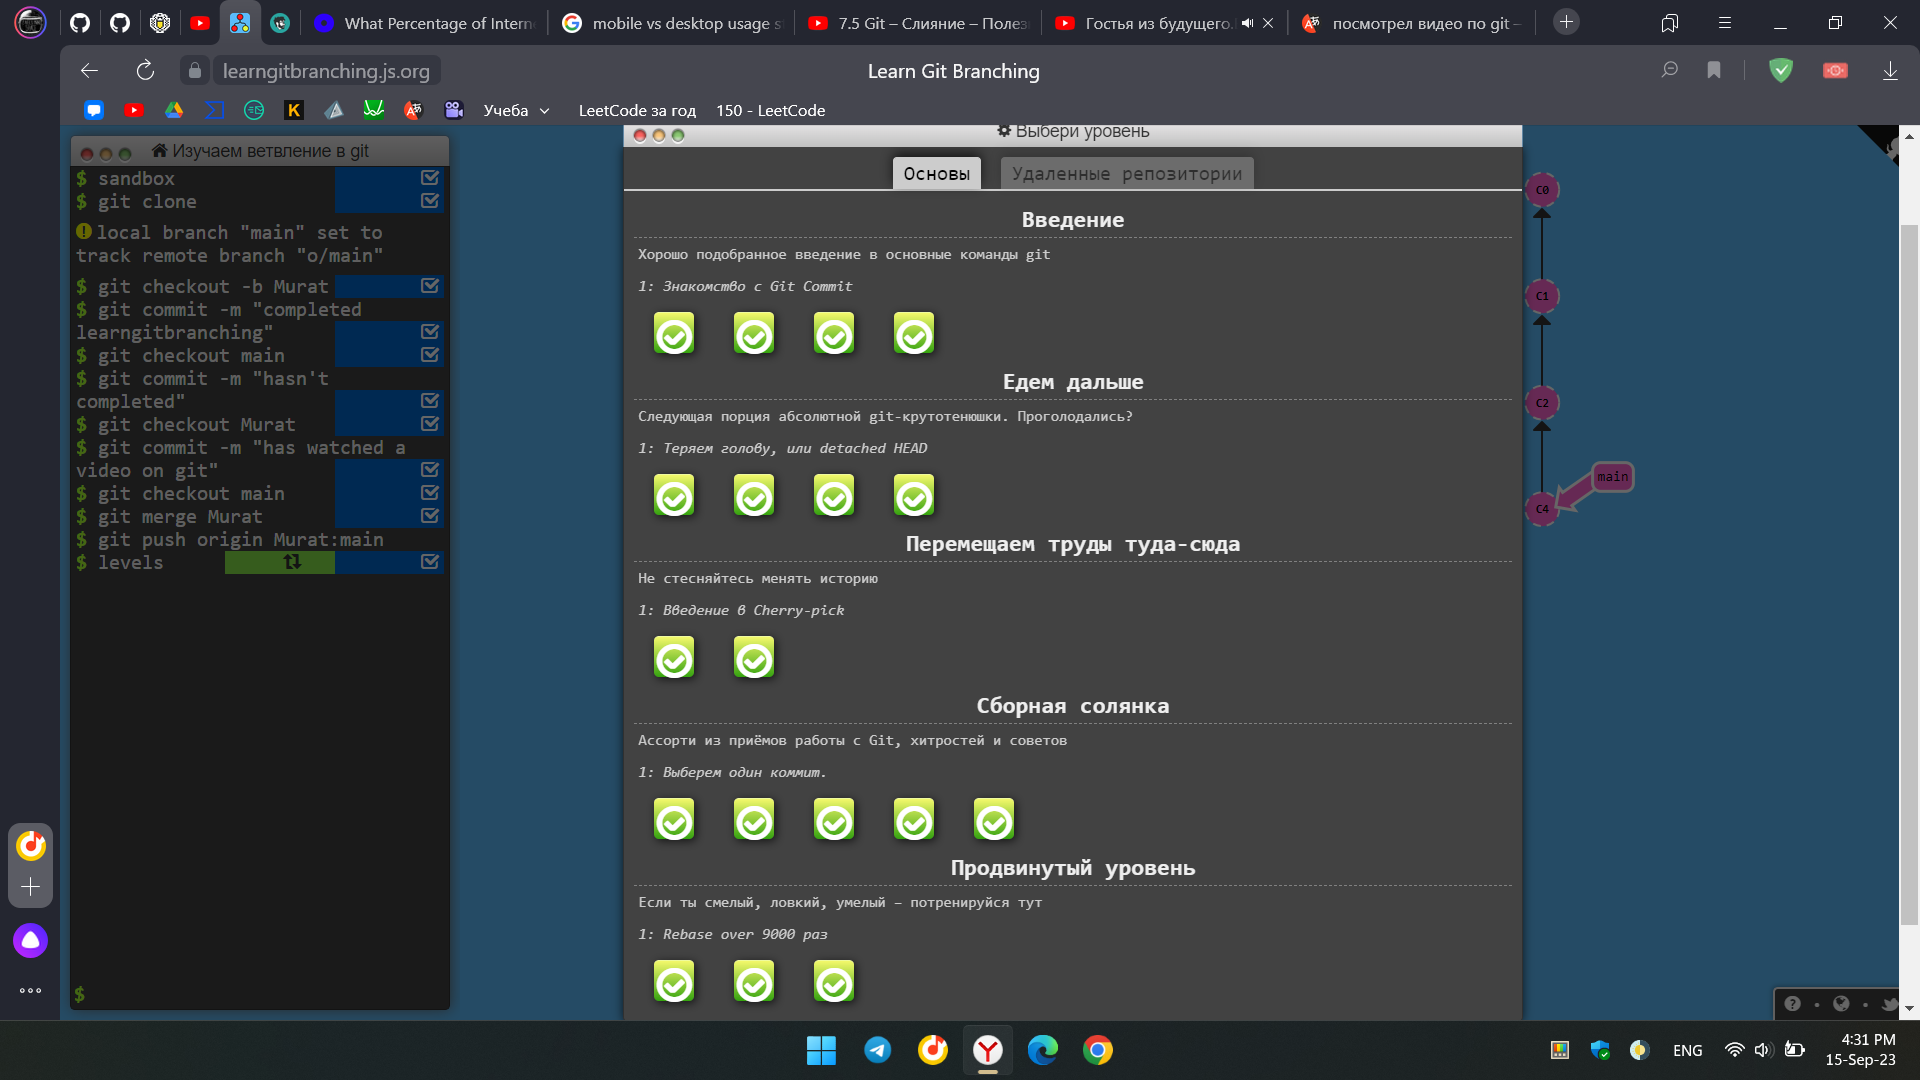
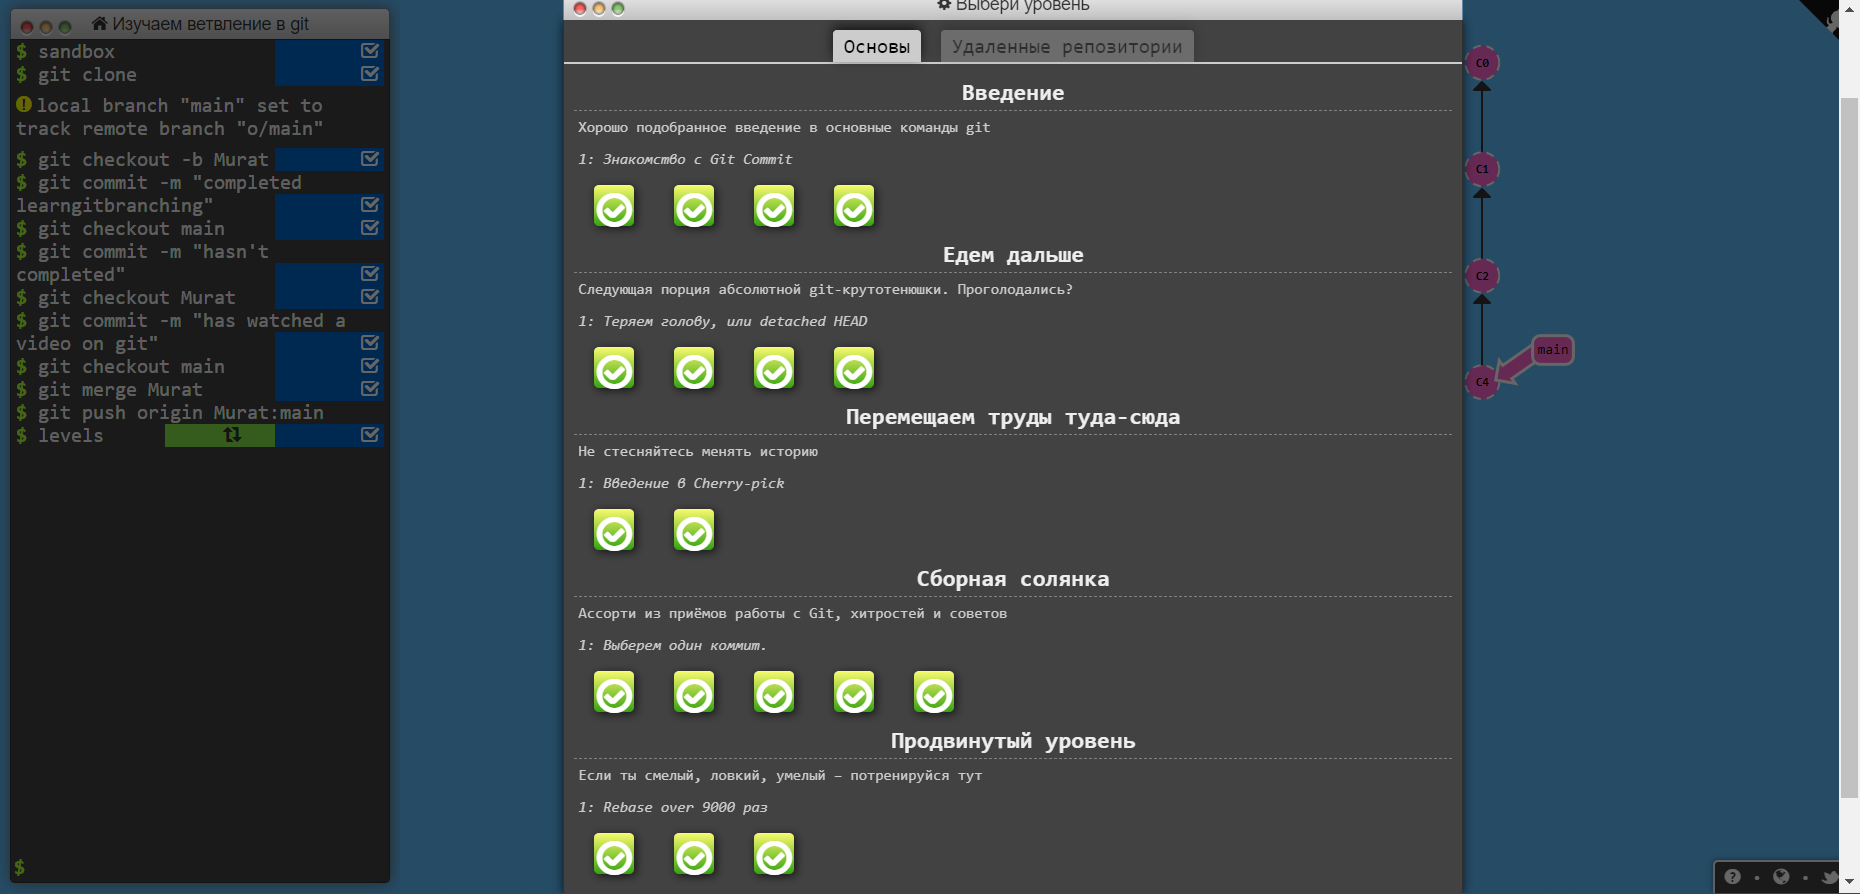
add README.MD

Changed region(s): [[0.0, 0.0, 1.0, 1.0]]

diff --git a/README.MD b/README.MD
@@ -1,0 +1,109 @@
+# FinTech
+***Решил сделать README.MD в виде dropdown списков***
+
+<details> <summary>Пройти интерактивный курс по git</summary>
+
+Пруфы прохождения интерактивного курса по [git](https://learngitbranching.js.org/?locale=ru_RU):
+![](learngitbranching1.png)
+![](learngitbranching2.png)
+</details>
+
+<details> <summary>Создать репозиторий на GitHub</summary> 
+
+На GitHub был создан пустой репозиторий под названием [fintech](https://github.com/TblPK/fintech/)
+</details>
+
+<details> <summary>Создать ветку и запушить ветку master</summary>
+
+С помощью следующих команд была создана и запушена ветка master на удаленный репозиторий (он же GitHub):
+```
+git init
+git commit --allow-empty -m "--allow-empty"
+git remote add origin https://github.com/TblPK/fintech.git
+git push -u origin master
+```
+</details>
+
+<details> <summary>Создать ветку develop</summary>
+
+Чтобы создать ветку и сразу переключиться на неё, можно выполнить команду: `git checkout -b develop`
+</details>
+
+<details> <summary>Опыт, какие навыки имеете</summary>
+
+У меня нет огромного опыта разработки. В основном я занимался созданием мелких приложений для изучения различных языков программирования (Java, C++, Python, Kotlin, ~~MatLab~~). 
+
+Из более-менее серьезных проектов:
+- Курсовая работа: реализация функциональности сохранения отрисовываемых на сцене объектов в приложении на Android с использованием Java. (репозиторий приватный)
+- Делал для себя: реализация простого клиент-серверного приложения на чистой Java [GitHub](https://github.com/TblPK/client-server-application).
+
+Kotlin был выбран для изучения алгоритмов и структур данных, ну и для решения задач на LeetCode.
+</details>
+
+<details> <summary>Цели, что хотите получить от курса</summary>
+
+Как уже было написано в анкете: надеюсь, что обучение позволит мне получить фундаментальные знания и навыки, необходимые для успешной карьеры в области разработки программного обеспечения. Будучи оснащенным этими навыками, я смогу выполнять сложные задачи, создавать инновационные проекты и продвигаться в своей профессиональной сфере.
+</details>
+
+<details> <summary>Какой бы курсовой проект хотели бы реализовать (если уже определились), если не определились мы поможем вам с выбором</summary>
+
+Пока еще не определился с курсовым проектом :)
+</details>
+
+<details> <summary>Опишите основные команды git, как ими пользоваться и напишите пример использования</summary>
+
+Образно команды git можно разделить на следующие типы:
+
+<u>1. Команды управления репозиторием</u>:
+- `git init`: инициализирует новый репозиторий Git в текущем каталоге.
+- `git clone`: клонирует существующий репозиторий Git на локальную машину.
+- `git remote`: управляет удаленными репозиториями, связанными с локальным.
+- `git config`: устанавливает или просматривает конфигурационные параметры.
+
+<u>2. Команды управления изменениями</u>:
+- `git add`: индексирует изменения для коммита.
+- `git commit`: создает новый коммит с индексированными изменениями.
+- `git reset`: позволяет отменить изменения в репозитории.
+- `git revert`: создает новый коммит, который отменяет изменения.
+
+<u>3. Команды управления ветками</u>:
+- `git branch`: отображает, создает или удаляет ветки.
+- `git checkout`: переключается между ветками или восстанавливает файлы.
+- `git merge`: сливает изменения из одной ветки в другую.
+- `git rebase`: перебазирует текущую ветку на другую ветку.
+
+<u>4. Команды управления удаленными репозиториями</u>:
+- `git push`: отправляет локальные коммиты на удаленный репозиторий.
+- `git pull`: получает изменения с удаленного репозитория со слиянием.
+- `git fetch`: получает изменения с удаленного репозитория без слияния.
+
+<u>5. Команды просмотра истории и состояния</u>:
+- `git log`: отображает историю коммитов.
+- `git status`: показывает текущее состояние репозитория.
+- `git diff`: показывает различия между коммитами, ветками или файлами.
+- `git show`: показывает информацию о коммите, внесенные в него.
+
+Пример использования:
++ init: проинициализируем локальный репозиторий.
+	- `git init`
++ clone: скопируем наш удаленный репозиторий.
+	- `git clone https://github.com/TblPK/fintech`
++ add: проиндексируем файл.
+	- `git add README.MD`
++ commit: закоммитим индексированные файлы.
+	- `git commit -m "add README.MD"`
++ push: запушим изменения из локальной ветки main в удаленную ветку main.
+	- `git push origin main`
++ pull: сольем изменения из удаленной ветки main в локальную ветки main. 
+	- `git pull origin main`
+</details>
+
+<details> <summary>Добавить коммит с README.MD файлом, где указать информацию о себе</summary>
+
+Мы уже находимся в ветке develop. Теперь проиндексируем файл README.MD и закоммитим.
+```
+git add README.MD
+git commit -m "add README.MD"
+```
+</details>
+
